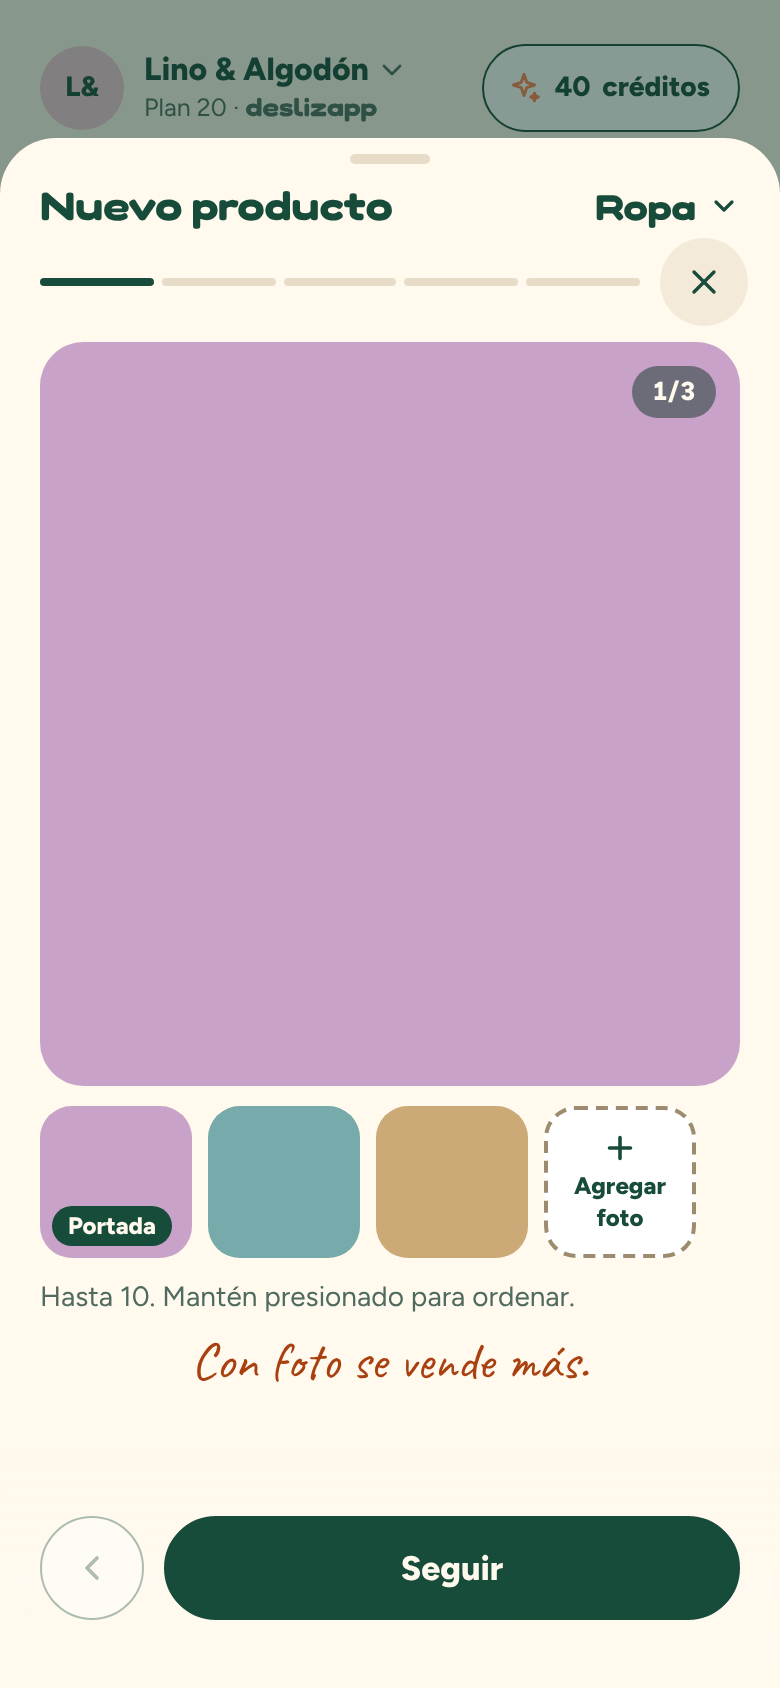
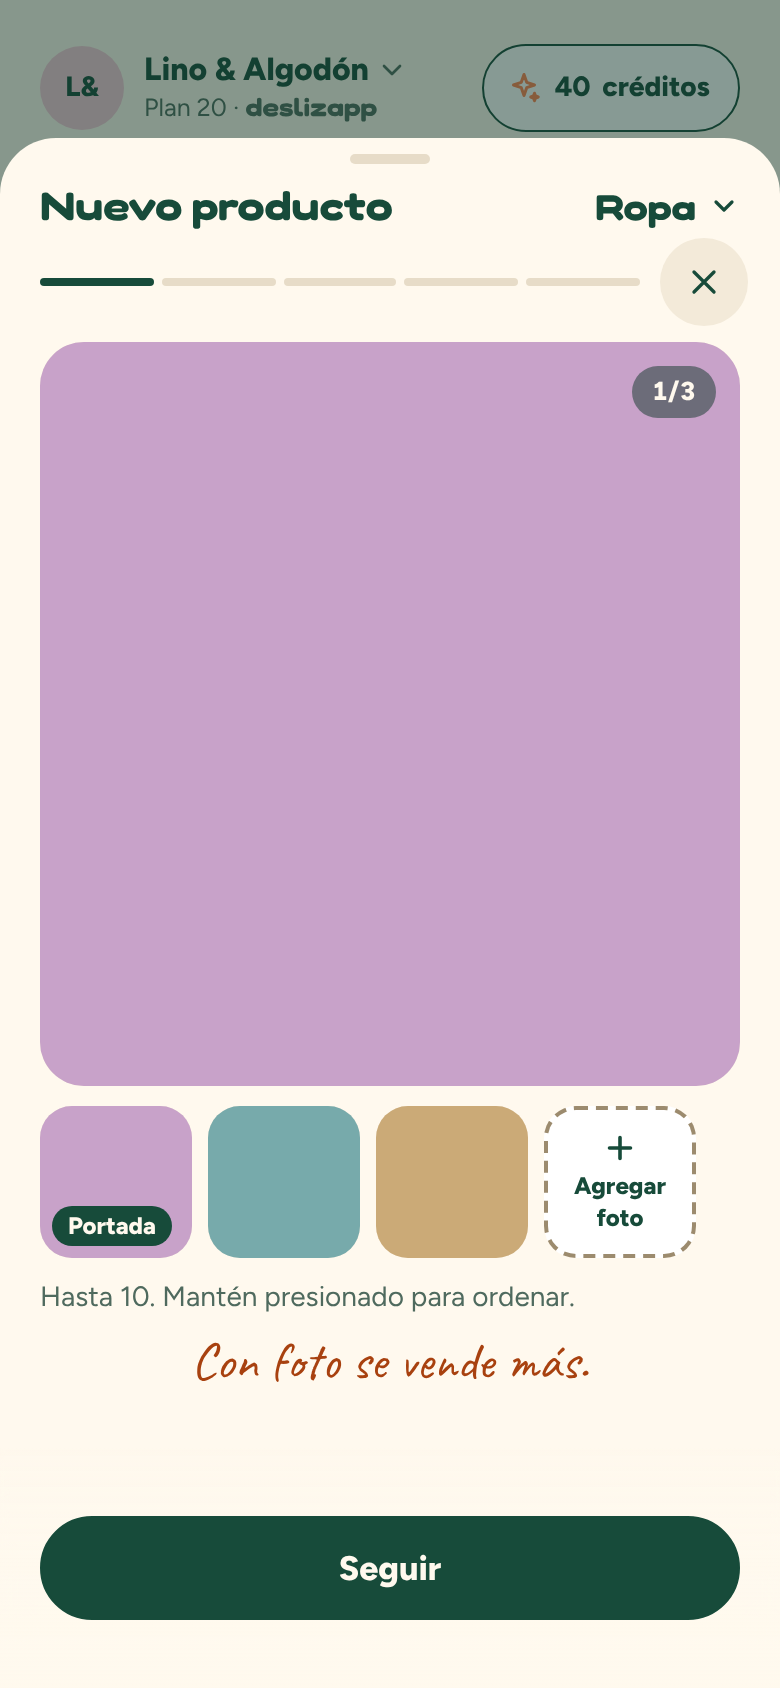
Crear producto: sin «‹» en el primer paso, «Seguir» centrado
Claude-Session: https://claude.ai/code/session_01ArBTbnhVQZmk2hdBLjd3F4

Changed region(s): [[0.0308, 0.8934, 0.2462, 0.9858], [0.4308, 0.9242, 0.6462, 0.955]]

diff --git a/components/catalogo/historia-producto.tsx b/components/catalogo/historia-producto.tsx
@@ -631,8 +631,8 @@ function Historia({
 
       {paso === "foto" &&
         pie(
+          // Primer paso: sin «‹» (no hay a dónde volver); el botón principal ocupa todo el pie y queda centrado.
           <div className="flex items-center gap-2.5">
-            {botonAtras}
             {medios.length === 0 ? (
               <Boton jerarquia="terciario" tamano="grande" className="flex-1" onClick={seguir}>Seguir sin foto</Boton>
             ) : (

diff --git a/lib/novedades.ts b/lib/novedades.ts
@@ -26,6 +26,7 @@ const TODAS: Novedad[] = [
     cambios: [
       "Al crear un producto, toca el recuadro de la foto y tu teléfono te deja elegir: fototeca, tomar foto o archivo.",
       "La hoja sube un poco para que cada paso quepa sin desplazarte.",
+      "En la primera pantalla, «Seguir» queda centrado: ya no hay «‹» que no lleva a ningún lado.",
     ],
   },
   {

diff --git a/docs/04-pantallas.md b/docs/04-pantallas.md
@@ -262,10 +262,10 @@ en el prototipo); precios de producto, cantidades y nombres, en Figtree.
 
 **Crear producto (historia)** — `/catalogo/nuevo` (11 oct 2026, `docs/prompts/crear-producto-historia.md`; opción B aprobada por Lewis en `referencias/crear-producto/`). **Sustituye, solo para crear, al formulario de abajo**, que sigue vigente para editar. **Desde el 12 oct manda el prototipo v4** (`docs/prompts/crear-producto-ronda-3.md`, `referencias/crear-producto/LEEME.md` «Prototipo v4» y sus capturas `b1…b16`).
 - **Es una HOJA** `grande` sobre el panel atenuado (prop `historia` de `Hoja`): el borde superior a `max(safe-arriba + 10px, 24px)` (≈69 px en un iPhone con isla; 12 oct, antes 78; debajo de la barra de estado), esquinas de `radio-xl` y agarradera. **Cabecera en dos filas:** fila 1, «Nuevo producto» (Fredoka 20) a la izquierda y, **con varios catálogos**, el selector («Ropa ▾», `SelectorCatalogo` compacto, Fredoka 18) a la derecha; no es una pregunta y sale con el **último catálogo en el que se creó** en esa tienda (localStorage `deslizapp-catalogo-crear:{tienda}`, con try/catch) o, si no hay, con el que se estaba viendo; con un solo catálogo, la fila solo lleva el título. Fila 2: las **barras tipo historia** (4 px, 4 px entre barras; llenas las hechas y la actual en `accion`, el resto `borde-pastilla`; `role="progressbar"`) y la ✕ en su círculo. El contenido empieza en y=180. **Sin ‹ en la cabecera.**
-- **Una pregunta por pantalla:** título Fredoka de 26 px, ayuda de 15 px y el control. **«Atrás» (‹, círculo de 52 px) siempre abajo, a la izquierda del botón principal**, en un pie flotante **sin recuadro**, siempre a la vista (el contenido pasa por detrás con un desenfoque progresivo, el borde de las cabeceras invertido, `.hoja-borde-abajo`; el contenido de cada paso termina con un espacio igual al alto del pie y la hoja lo cuenta en su `scroll-padding`; el Inventario usa el mismo pie; a validar en iPhone: la barra de Safari iOS 26, cuyo borde inferior termina en Papel Cálido); apagado en la foto, oculto en la celebración; las hojas que se abren encima (Descripción, Ficha técnica, Detalles) también lo llevan junto a «Listo». Cambiar de pregunta es instantáneo; el foco va al campo en el mismo toque (`flushSync` + `focus()`) y, en pantallas cortas, el campo se desplaza sobre la barra; sin campo, el foco va al título. «‹» y el atrás del teléfono vuelven sin perder nada; la ✕ pregunta «¿Salir sin guardar?» si hay algo escrito.
+- **Una pregunta por pantalla:** título Fredoka de 26 px, ayuda de 15 px y el control. **«Atrás» (‹, círculo de 52 px) abajo, a la izquierda del botón principal, desde el segundo paso (en el primero se quita y el botón principal queda centrado, de margen a margen)**, en un pie flotante **sin recuadro**, siempre a la vista (el contenido pasa por detrás con un desenfoque progresivo, el borde de las cabeceras invertido, `.hoja-borde-abajo`; el contenido de cada paso termina con un espacio igual al alto del pie y la hoja lo cuenta en su `scroll-padding`; el Inventario usa el mismo pie; a validar en iPhone: la barra de Safari iOS 26, cuyo borde inferior termina en Papel Cálido); apagado en la foto, oculto en la celebración; las hojas que se abren encima (Descripción, Ficha técnica, Detalles) también lo llevan junto a «Listo». Cambiar de pregunta es instantáneo; el foco va al campo en el mismo toque (`flushSync` + `focus()`) y, en pantallas cortas, el campo se desplaza sobre la barra; sin campo, el foco va al título. «‹» y el atrás del teléfono vuelven sin perder nada; la ✕ pregunta «¿Salir sin guardar?» si hay algo escrito.
 - **Nada antes de tiempo:** la tarjeta «así se verá» (pasos 2–4: **350×372**, de margen a margen, la misma y en el mismo lugar, foto en `cover`, «así se verá» a mano) muestra el nombre (Fredoka 24), el precio y «Llega en …» solo cuando ya se respondieron.
 - **Sin scroll (12 oct):** en 390×844 y 393×852 (safe 59/34) ningún paso de un producto sin presentaciones se desplaza (foto sin fotos y con 3, nombre, precio, cantidad, por encargo con plazo elegido, «Así se ve»); lo prueba `scripts/probar-crear-producto.mjs`. Para eso, la hoja sube y el contenido deja de contar dos veces la zona de abajo (`pb` = lo mayor entre el margen y el pie, solo en la historia), y los márgenes verticales bajaron unos px (encabezado 18→12, campos 16→12, contador 14→10, interruptor 10→6, tira y «Con foto se vende más.» 12→8, «Así se ve» sin hueco entre el reel y «Hazlo brillar»). Con «Otro» abierto en el plazo del encargo el paso sí hace scroll (≈81 px).
-- **1 · Empieza por la foto.** Sin fotos: el marco de 372 con el hueco punteado («Toca para agregar fotos»), que **es un botón («Agregar fotos») y abre el input sin `capture`** (`[data-entrada-medios]`, con varias fotos): en iOS muestra el menú nativo (Fototeca / Tomar foto / Elegir archivo), en Android su selector; ya no hay «Tomar foto» ni «Elegir de la galería». Debajo, el título, «Con foto se vende más.» (Caveat 26) y abajo ‹ apagado + «Seguir sin foto». Con fotos: desaparecen el título y el recuadro tocable; la portada en grande con «1/N» (tocarla no abre el selector), la tira de `SeccionMedios` (portada, «+ Agregar foto», ordenar, quitar, «Retocar esta foto» Beta), «Hasta 10. Mantén presionado para ordenar.», **«Con foto se vende más.» al final** y un hueco debajo para el futuro retoque (ronda futura, no construido).
+- **1 · Empieza por la foto.** Sin fotos: el marco de 372 con el hueco punteado («Toca para agregar fotos»), que **es un botón («Agregar fotos») y abre el input sin `capture`** (`[data-entrada-medios]`, con varias fotos): en iOS muestra el menú nativo (Fototeca / Tomar foto / Elegir archivo), en Android su selector; ya no hay «Tomar foto» ni «Elegir de la galería». Debajo, el título, «Con foto se vende más.» (Caveat 26) y abajo «Seguir sin foto», centrado y sin ‹. Con fotos: desaparecen el título y el recuadro tocable; la portada en grande con «1/N» (tocarla no abre el selector), la tira de `SeccionMedios` (portada, «+ Agregar foto», ordenar, quitar, «Retocar esta foto» Beta), «Hasta 10. Mantén presionado para ordenar.», **«Con foto se vende más.» al final** y un hueco debajo para el futuro retoque (ronda futura, no construido).
 - **2 · ¿Cómo se llama?** `Campo grande` (56 px, letra 20 en negrita, sin texto de ejemplo); Enter sigue.
 - **3 · ¿Cuánto cuesta?** `Campo grande` de precio (64 px, `RD$`, la cifra en Fredoka 32; vacío, «Escribe tu precio» pequeño y gris). Con precio aparece el `Chip` «+ Tiene tallas o colores»: lleva a las presentaciones como historia (abajo).
 - **Presentaciones como historia** (ronda 3, Bloque 2; prototipo v4 P1–P5 e I1–I3). Desde el chip, en el mismo toque, **7 barras en lugar de 5** (sin animar; 6 si solo cambia una cosa) y no hay paso de stock:
